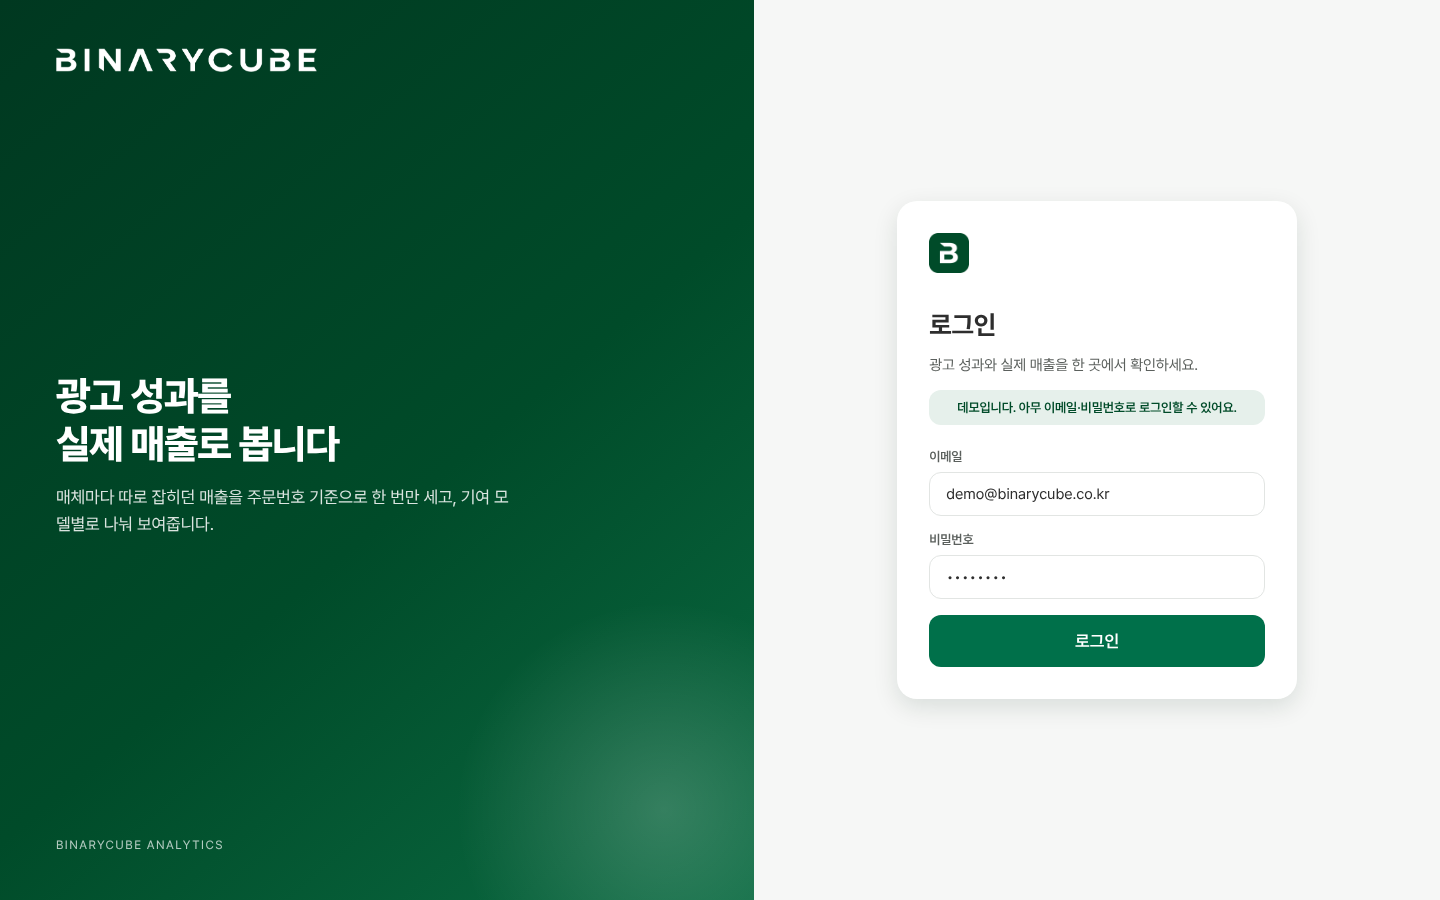
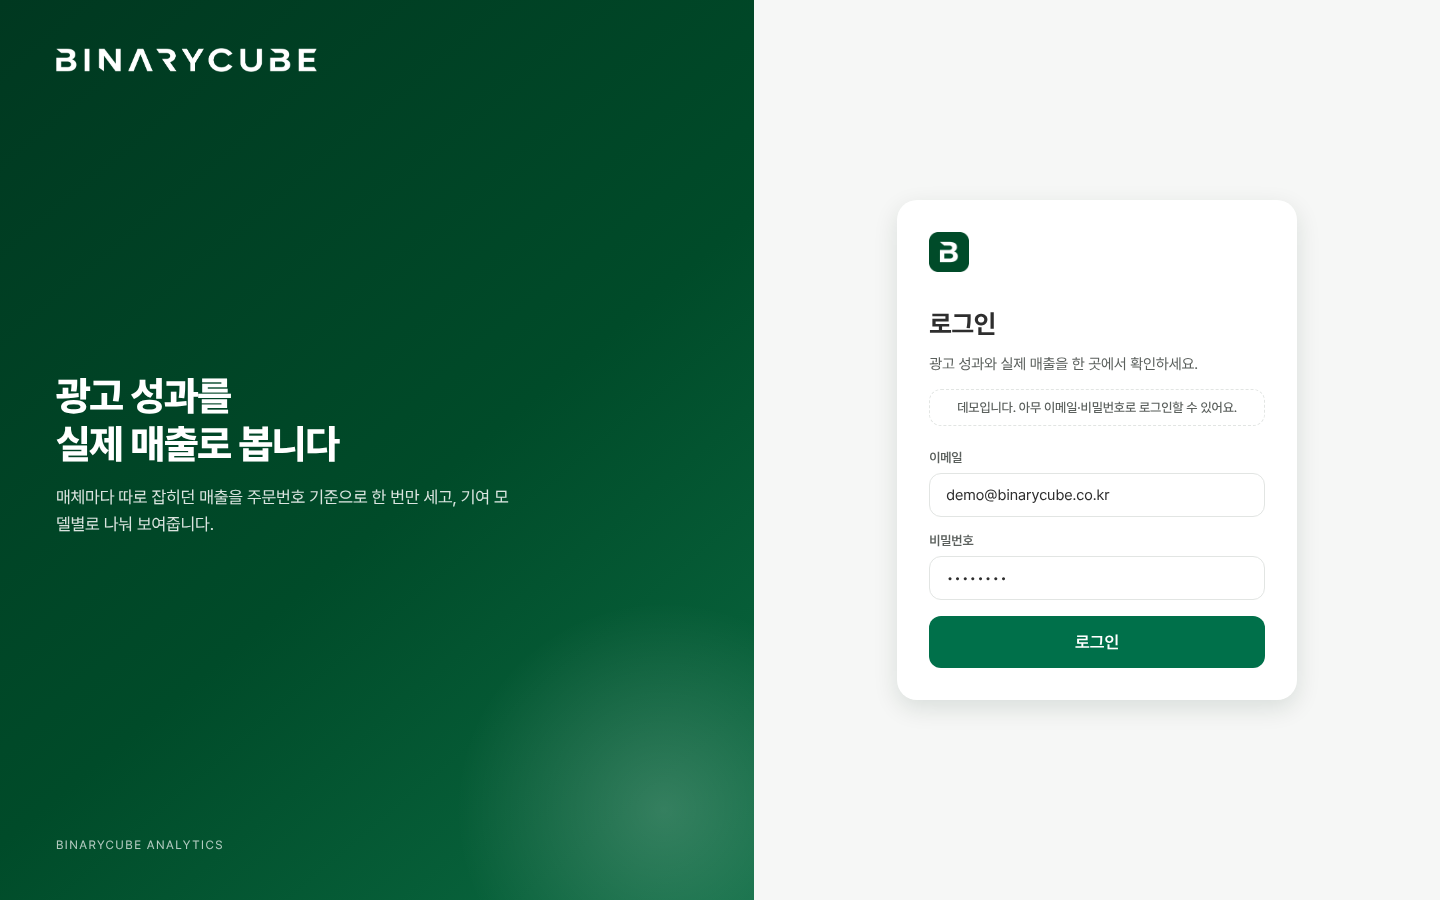
fix(web): 표 카드 행 클래스가 .stack 유틸과 겹쳐 데스크톱 머리글이 어긋나던 문제, 최근 주문 모바일 카드 행, 비교 열 여백
- table.stack → table.table-cards (기존 .stack {display:flex}와 충돌)
- 비교 열이 붙은 표는 칸 여백을 줄여 한 화면에 들어오게
- 최근 주문 표도 640px 이하에서 카드 행
- README 데모 설명 (알림·비교·모바일), 데모 스크린샷 갱신 (demo-compare-*, demo-mobile-*)

Claude-Session: https://claude.ai/code/session_01Uu9ww9w2VHABkxoguyTtBx

diff --git a/crates/web/assets/app.css b/crates/web/assets/app.css
@@ -390,42 +390,48 @@
   .barlist-value { grid-area: value; align-self: start; }
 
   /* 카드 행으로 바꾸지 않는 표(설정·관리·주문): 카드 안에서 가로 스크롤, 첫 열 고정 */
-  .table:not(.stack) th:first-child, .table:not(.stack) td:first-child { position: sticky; left: 0; z-index: 1; background: var(--bg); }
+  .table:not(.table-cards) th:first-child, .table:not(.table-cards) td:first-child { position: sticky; left: 0; z-index: 1; background: var(--bg); }
 }
 
 /* ===== 좁은 화면 표 → 카드 행 (≤640px) ===== */
 @media (max-width: 640px) {
-  .table.stack, .table.stack tbody, .table.stack tfoot, .table.stack thead { display: block; width: 100%; }
+  .table.table-cards, .table.table-cards tbody, .table.table-cards tfoot, .table.table-cards thead { display: block; width: 100%; }
   /* 머리글은 정렬 버튼만 칩으로 남긴다 */
-  .table.stack thead tr { display: flex; flex-wrap: nowrap; overflow-x: auto; gap: 6px; padding: 0 var(--s-4) var(--s-3); border-bottom: 1px solid var(--line); scrollbar-width: none; }
-  .table.stack thead tr::-webkit-scrollbar { display: none; }
-  .table.stack thead tr:not(:has(.sortable:not(.m-hide))) { display: none; }
-  .table.stack thead th { display: none; padding: 0; border: 0; }
-  .table.stack thead th.sortable:not(.m-hide) { display: block; flex: none; }
-  .table.stack thead .th-btn { height: 32px; padding: 0 12px; border-radius: 16px; background: var(--card); font-size: 12px; white-space: nowrap; }
-  .table.stack thead th[aria-sort="ascending"] .th-btn, .table.stack thead th[aria-sort="descending"] .th-btn { background: var(--primary-weak); color: var(--primary); font-weight: 700; }
-  .table.stack tr { display: grid; grid-template-columns: repeat(2, minmax(0, 1fr)); gap: 8px 12px; padding: var(--s-3) var(--s-4); border-bottom: 1px solid var(--line); }
-  .table.stack tbody tr:last-child { border-bottom: 0; }
-  .table.stack td {
+  .table.table-cards thead tr { display: flex; flex-wrap: nowrap; overflow-x: auto; gap: 6px; padding: 0 var(--s-4) var(--s-3); border-bottom: 1px solid var(--line); scrollbar-width: none; }
+  .table.table-cards thead tr::-webkit-scrollbar { display: none; }
+  .table.table-cards thead tr:not(:has(.sortable:not(.m-hide))) { display: none; }
+  .table.table-cards thead th { display: none; padding: 0; border: 0; }
+  .table.table-cards thead th.sortable:not(.m-hide) { display: block; flex: none; }
+  .table.table-cards thead .th-btn { height: 32px; padding: 0 12px; border-radius: 16px; background: var(--card); font-size: 12px; white-space: nowrap; }
+  .table.table-cards thead th[aria-sort="ascending"] .th-btn, .table.table-cards thead th[aria-sort="descending"] .th-btn { background: var(--primary-weak); color: var(--primary); font-weight: 700; }
+  .table.table-cards tr { display: grid; grid-template-columns: repeat(2, minmax(0, 1fr)); gap: 8px 12px; padding: var(--s-3) var(--s-4); border-bottom: 1px solid var(--line); }
+  .table.table-cards tbody tr:last-child { border-bottom: 0; }
+  .table.table-cards td {
     display: flex; flex-direction: column; align-items: flex-start; gap: 2px; padding: 0; border: 0; min-width: 0;
     white-space: normal; text-align: left; overflow-wrap: anywhere; background: transparent;
   }
-  .table.stack td::before { content: attr(data-label); font-size: 11px; color: var(--text-weak); font-weight: 500; }
-  .table.stack td:first-child { grid-column: 1 / -1; }
-  .table.stack td:first-child::before { display: none; }
-  .table.stack td:empty { display: none; }
-  .table.stack td.main-metric { flex-direction: row; flex-wrap: wrap; align-items: center; column-gap: 6px; }
-  .table.stack td.main-metric::before { flex-basis: 100%; }
-  .table.stack .m-hide { display: none; }
-  .table.stack .m-only { display: inline-flex; }
-  .table.stack .path-cell { max-width: none; word-break: break-all; }
-  .table.stack tbody tr:hover td { background: transparent; }
-  .table.stack tbody tr.clickable:active { background: var(--bg-page); }
-  .table.stack tfoot tr { background: var(--bg-page); border-bottom: 0; }
-  .table.stack tfoot td { border-top: 0; }
+  .table.table-cards td::before { content: attr(data-label); font-size: 11px; color: var(--text-weak); font-weight: 500; }
+  .table.table-cards td:first-child { grid-column: 1 / -1; }
+  .table.table-cards td:first-child::before { display: none; }
+  .table.table-cards td:empty { display: none; }
+  .table.table-cards td.main-metric { flex-direction: row; flex-wrap: wrap; align-items: center; column-gap: 6px; }
+  .table.table-cards td.main-metric::before { flex-basis: 100%; }
+  .table.table-cards .m-hide { display: none; }
+  .table.table-cards .m-only { display: inline-flex; }
+  .table.table-cards .path-cell { max-width: none; word-break: break-all; }
+  .table.table-cards tbody tr:hover td { background: transparent; }
+  .table.table-cards tbody tr.clickable:active { background: var(--bg-page); }
+  .table.table-cards tfoot tr { background: var(--bg-page); border-bottom: 0; }
+  .table.table-cards tfoot td { border-top: 0; }
 }
 
 @media (max-width: 400px) {
   .topbar-org { display: none; }
   .range-picker .segmented button { padding: 0 10px; }
+}
+
+/* 비교 열이 붙은 표는 칸 여백을 줄여 한 화면에 들어오게 한다 */
+@media (min-width: 641px) {
+  .table:has(.cmp-col) th, .table:has(.cmp-col) td { padding-left: 12px; padding-right: 12px; }
+  .table:has(.cmp-col) th:first-child, .table:has(.cmp-col) td:first-child { padding-left: var(--s-5); }
 }

diff --git a/crates/web/src/pages/revenue.rs b/crates/web/src/pages/revenue.rs
@@ -143,7 +143,7 @@ pub fn ChannelRevenueTable(report: RevenueReport, prev: Option<RevenueReport>) -
     let total_roas_change = roas_change(r.roas, prev.as_ref().map(|p| p.roas));
     rsx! {
         div { class: "table-wrap", style: "margin-top: 16px;",
-            table { class: "table stack",
+            table { class: "table table-cards",
                 thead { tr {
                     th { scope: "col", "매체" }
                     th { class: "r m-hide", scope: "col", "매체가 주장한 매출" }
@@ -410,7 +410,7 @@ pub fn Revenue(pid: ReadSignal<i32>) -> Element {
                             div { class: "callout", "이 쪽에는 주문이 없어요. 이전 쪽으로 돌아가 보세요." }
                         } else {
                             div { class: "table-wrap",
-                                table { class: "table stack",
+                                table { class: "table table-cards",
                                     thead { tr {
                                         th { scope: "col", "주문" }
                                         th { scope: "col", "마지막 클릭" }

diff --git a/crates/web/src/pages/overview.rs b/crates/web/src/pages/overview.rs
@@ -253,7 +253,7 @@ const PREV_PAGES_LIMIT: u32 = crate::pages::page_report::LIMIT;
 pub fn TopPagesTable(rows: Vec<(PageRow, Option<PageRow>)>, compare: bool) -> Element {
     rsx! {
         div { class: "table-wrap",
-            table { class: "table stack",
+            table { class: "table table-cards",
                 thead { tr {
                     th { scope: "col", "페이지" }
                     th { class: "r", scope: "col", "페이지뷰" }

diff --git a/crates/web/src/pages/funnel.rs b/crates/web/src/pages/funnel.rs
@@ -58,7 +58,7 @@ pub fn pair_steps(
 pub fn FunnelTable(steps: Vec<(FunnelStep, Option<FunnelStep>)>, compare: bool) -> Element {
     rsx! {
         div { class: "table-wrap",
-            table { class: "table stack",
+            table { class: "table table-cards",
                 thead { tr {
                     th { scope: "col", "단계" }
                     th { class: "r", scope: "col", "방문자" }

diff --git a/crates/web/src/pages/page_report.rs b/crates/web/src/pages/page_report.rs
@@ -71,7 +71,7 @@ pub fn PagesTable(
     });
     rsx! {
         div { class: "table-wrap",
-            table { class: "table stack",
+            table { class: "table table-cards",
                 thead {
                     tr {
                         SortTh { label: "페이지 경로", k: Col::Path, sort, right: false }

diff --git a/crates/web/src/pages/acquisition.rs b/crates/web/src/pages/acquisition.rs
@@ -75,7 +75,7 @@ pub fn ChannelTable(
     });
     rsx! {
         div { class: "table-wrap",
-            table { class: "table stack",
+            table { class: "table table-cards",
                 thead {
                     tr {
                         SortTh { label: "채널", k: Col::Channel, sort, right: false }

diff --git a/crates/web/src/pages/events.rs b/crates/web/src/pages/events.rs
@@ -83,7 +83,7 @@ pub fn EventsTable(
     });
     rsx! {
         div { class: "table-wrap",
-            table { class: "table stack",
+            table { class: "table table-cards",
                 thead {
                     tr {
                         SortTh { label: "이벤트", k: Col::Name, sort, right: false }
